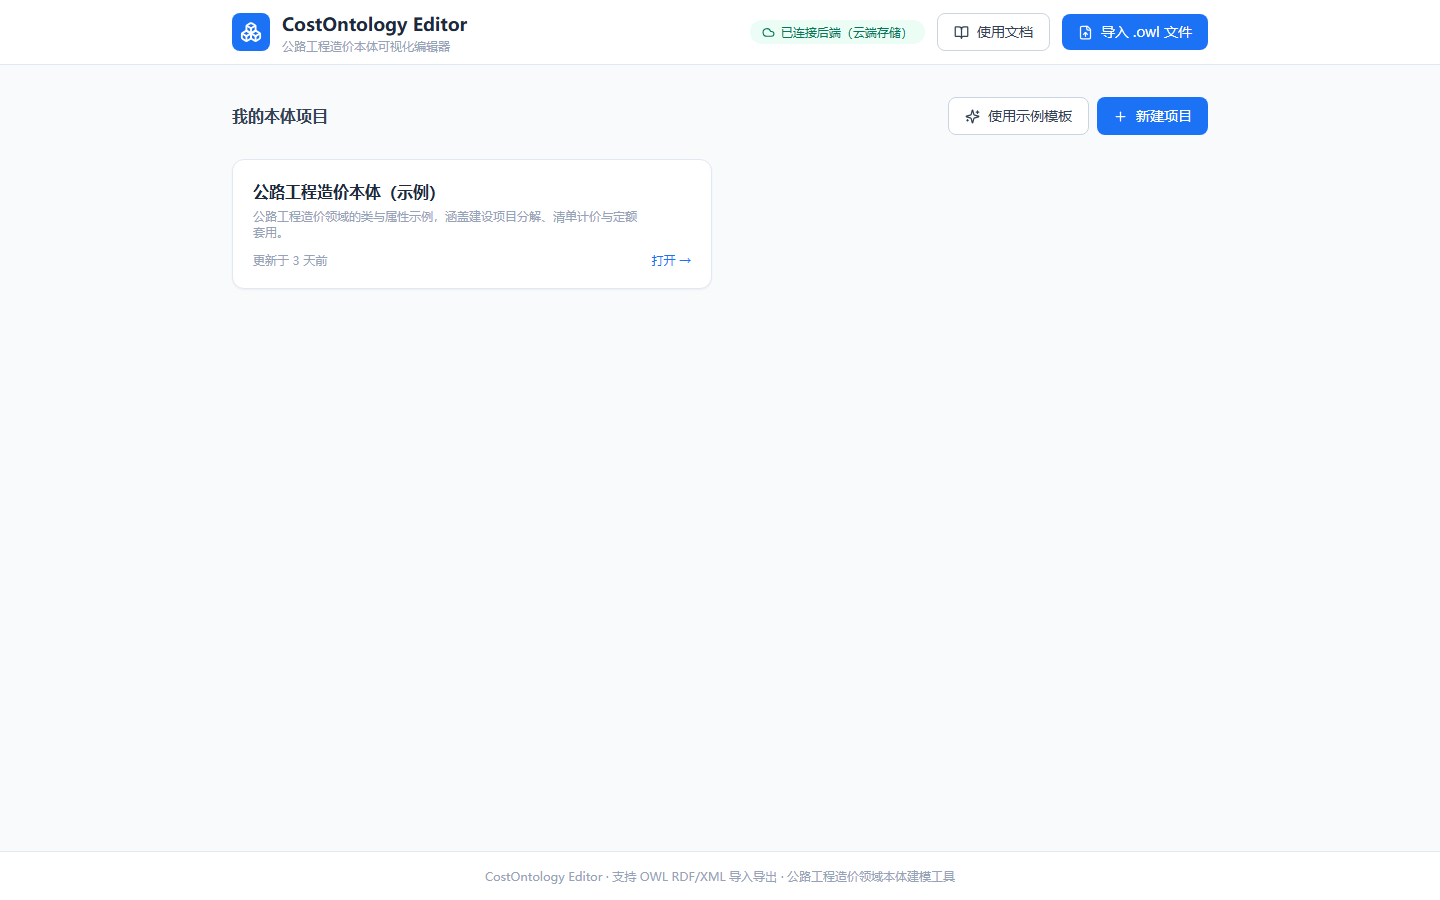
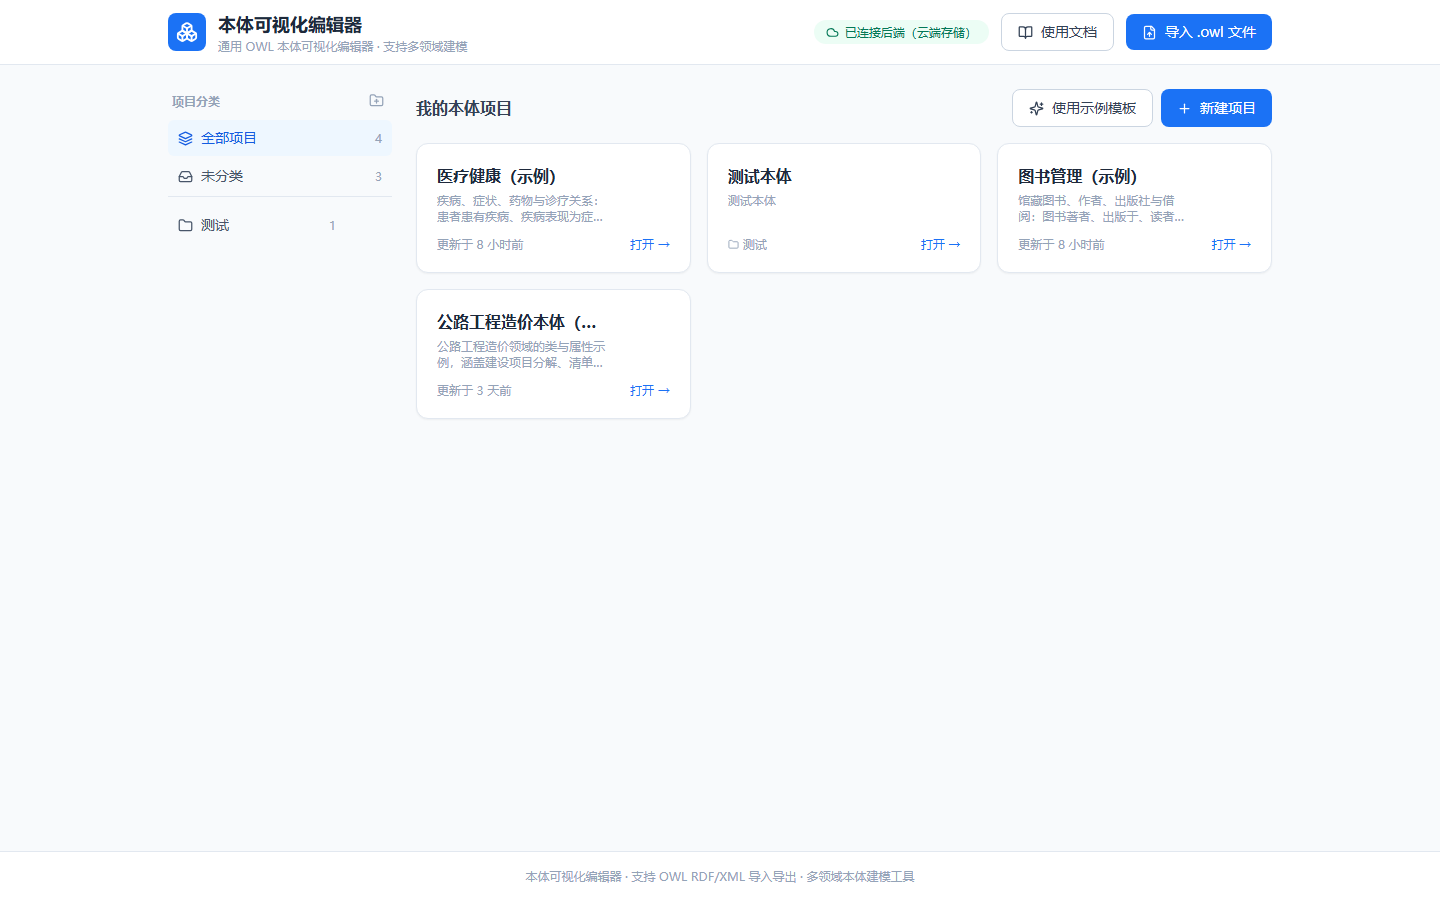
面板切换快捷键改为 Ctrl+Shift+1/2/3；更新使用文档截图
- Ctrl+1/2/3 会被浏览器拦截用于切换标签页（网页无法阻止），
  改为 Ctrl+Shift+1/2/3 切换右侧面板
- 重新生成全部文档截图（更名后的界面、新工具栏、模板选择、文件夹分类），
  新增 template.png / folder.png 并插入使用文档
- 使用文档补充文件夹分类说明与未保存提示说明

diff --git a/frontend/src/hooks/useKeyboardShortcuts.ts b/frontend/src/hooks/useKeyboardShortcuts.ts
@@ -19,7 +19,8 @@ interface ShortcutOptions {
  *   Ctrl+Shift+S     添加子类关系
  *   Ctrl+Shift+P     添加属性
  *   Ctrl+E           自动排版
- *   Ctrl+1 / 2 / 3   切换右侧面板（详情 / 添加 / 源码）
+ *   Ctrl+Shift+1/2/3 切换右侧面板（详情 / 添加 / 源码）
+ *   （注意：不能用 Ctrl+1/2/3，浏览器会切换标签页且无法被网页拦截）
  */
 export function useKeyboardShortcuts({ onSave }: ShortcutOptions) {
   useEffect(() => {
@@ -54,13 +55,12 @@ export function useKeyboardShortcuts({ onSave }: ShortcutOptions) {
           ui.requestLayout()
           break
         case '1':
-          ui.setPanelTab('detail')
-          break
         case '2':
-          ui.setPanelTab('add')
-          break
         case '3':
-          ui.setPanelTab('code')
+          if (e.shiftKey) {
+            e.preventDefault()
+            ui.setPanelTab(key === '1' ? 'detail' : key === '2' ? 'add' : 'code')
+          }
           break
         default:
           break

diff --git a/frontend/docs/usage.md b/frontend/docs/usage.md
@@ -17,7 +17,9 @@
 
 1. 首页点击 **「新建项目」**，填写项目名称（如「某高速公路造价本体」）
 2. 点击 **「创建并打开」** 进入编辑器
-3. 想快速体验？首页点击 **「使用示例模板」**，内置多个领域的示例本体（公路造价、医疗健康、教育、图书管理等）
+3. 想快速体验？首页点击 **「使用示例模板」**，从多个领域的示例本体中选择（公路造价、医疗健康、教育、图书管理等）：
+
+![模板选择](template.png)
 
 ### 3. 界面总览
 
@@ -98,9 +100,14 @@
 ## 四、多项目管理与保存
 
 - 首页项目列表可创建/打开/删除多个项目
+- **文件夹分类**：左侧栏可新建/重命名/删除文件夹，把项目移动到文件夹中分类管理（删除文件夹不会删除其中的项目，项目自动回到「未分类」）：
+
+![文件夹分类](folder.png)
+
 - 工具栏 **「保存」**：已连接后端时保存到服务器（SQLite），未连接时保存到浏览器本地（自动降级，界面显示「本地模式」）
 - 右上角 **「已连接 / 本地模式」** 显示当前存储方式
 - **布局（节点位置）随项目一起保存**，重新打开后位置不变
+- 有未保存修改时返回项目列表会询问是否保存；关闭/刷新浏览器标签页也会收到提示
 
 ## 五、导入与导出
 
@@ -127,7 +134,7 @@
 | `Ctrl+Shift+P`            | 添加属性                   |
 | `Ctrl+E`                    | 自动排版                   |
 | `Ctrl+O`                    | 导入 .owl / .json 文件     |
-| `Ctrl+1` / `Ctrl+2` / `Ctrl+3` | 切换右侧面板（详情/添加/源码） |
+| `Ctrl+Shift+1` / `2` / `3` | 切换右侧面板（详情/添加/源码） |
 | `Delete` / `Backspace`    | 删除选中的类或关系边       |
 | `Esc`                       | 关闭对话框 / 取消选中      |
 | 滚轮                          | 缩放画布                   |
